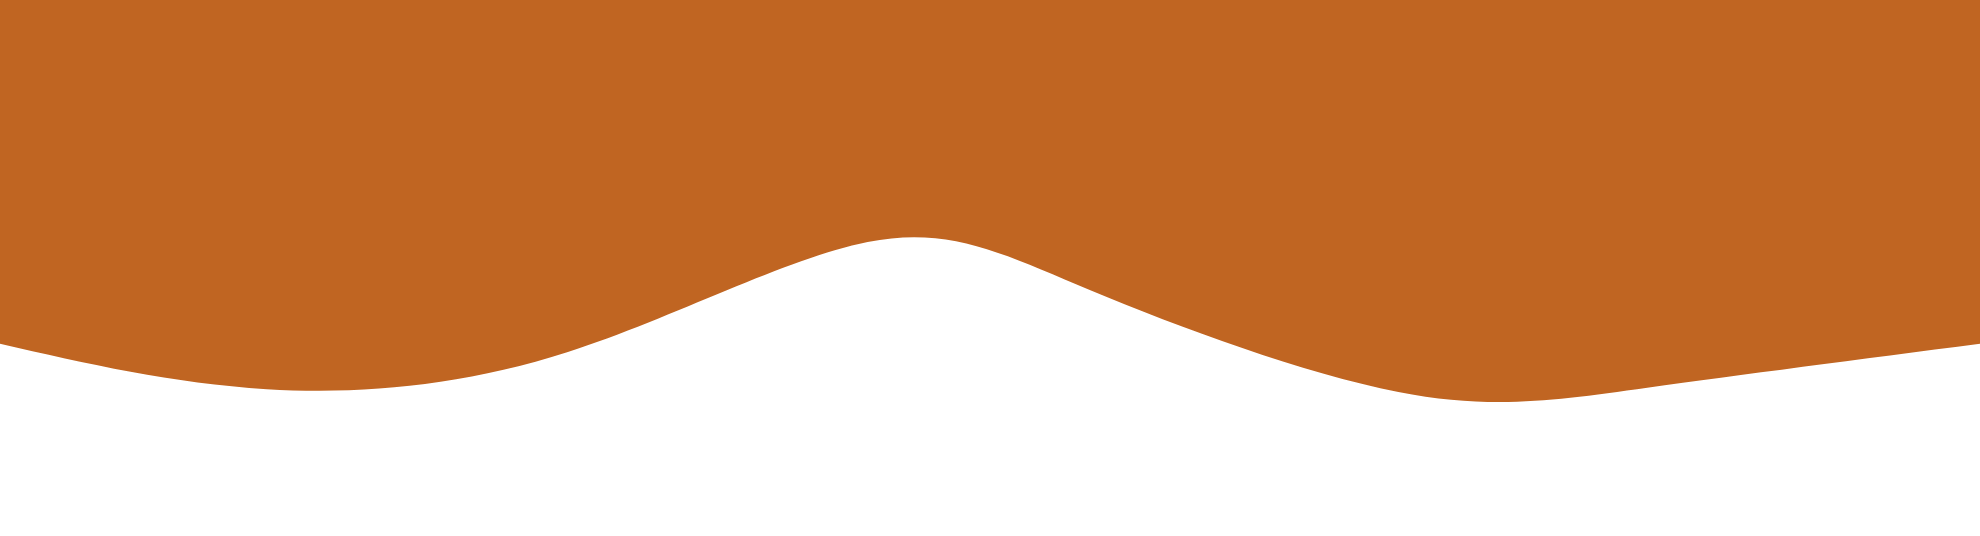
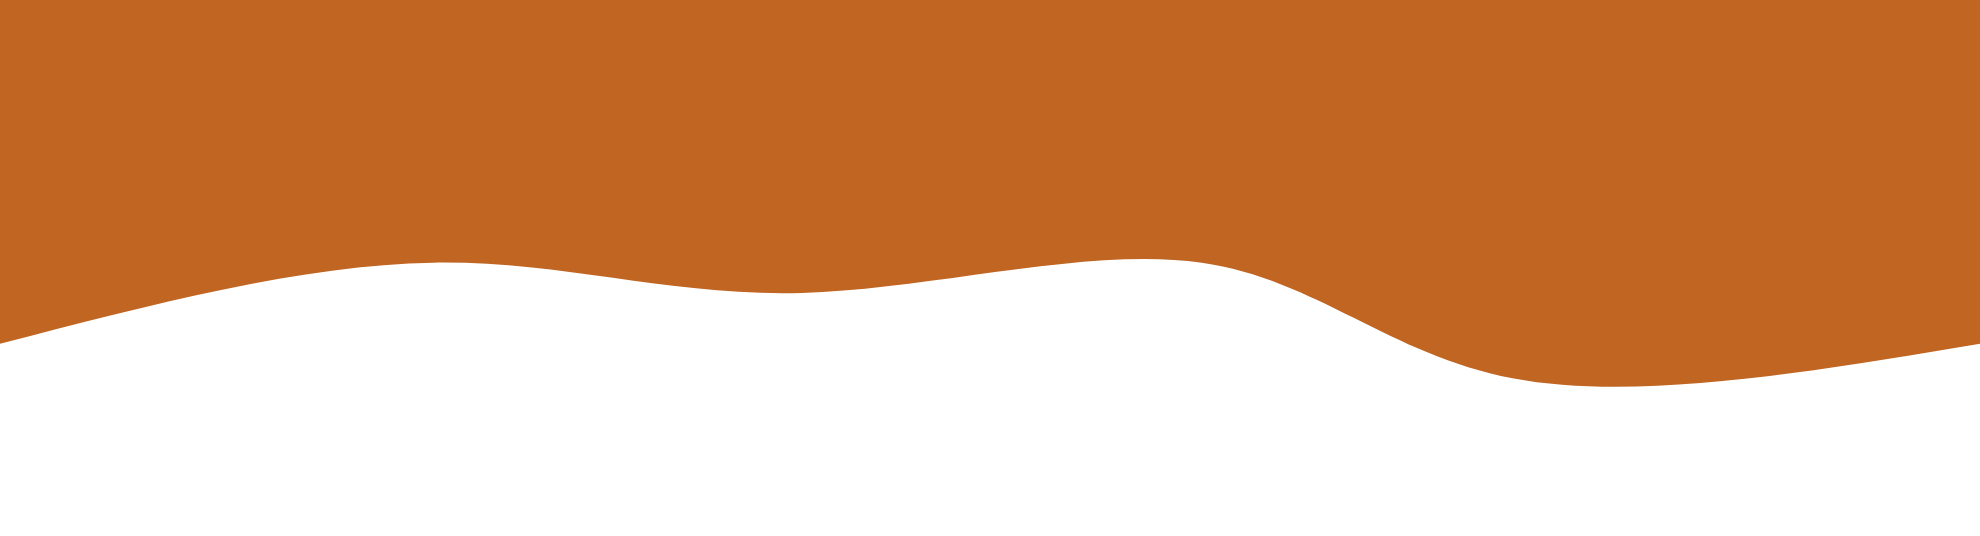
add waves up and down

Changed region(s): [[0.0, 0.4478, 0.8318, 0.7761], [0.8626, 0.6567, 0.9859, 0.7164]]

diff --git a/output.css b/output.css
@@ -12,10 +12,6 @@
     --spacing: 0.25rem;
     --text-sm: 0.875rem;
     --text-sm--line-height: calc(1.25 / 0.875);
-    --text-xl: 1.25rem;
-    --text-xl--line-height: calc(1.75 / 1.25);
-    --text-2xl: 1.5rem;
-    --text-2xl--line-height: calc(2 / 1.5);
     --text-3xl: 1.875rem;
     --text-3xl--line-height: calc(2.25 / 1.875);
     --text-4xl: 2.25rem;
@@ -29,7 +25,6 @@
     --font-weight-bold: 700;
     --font-weight-extrabold: 800;
     --radius-xl: 0.75rem;
-    --radius-2xl: 1rem;
     --radius-3xl: 1.5rem;
     --ease-in: cubic-bezier(0.4, 0, 1, 1);
     --ease-out: cubic-bezier(0, 0, 0.2, 1);
@@ -263,8 +258,35 @@
   .-top-\[7\%\] {
     top: calc(7% * -1);
   }
+  .-top-\[8\%\] {
+    top: calc(8% * -1);
+  }
+  .-top-\[9\%\] {
+    top: calc(9% * -1);
+  }
+  .-top-\[10\%\] {
+    top: calc(10% * -1);
+  }
+  .-top-\[11\%\] {
+    top: calc(11% * -1);
+  }
+  .top-\[10\%\] {
+    top: 10%;
+  }
   .-bottom-\[7\%\] {
     bottom: calc(7% * -1);
+  }
+  .-bottom-\[8\%\] {
+    bottom: calc(8% * -1);
+  }
+  .-bottom-\[9\%\] {
+    bottom: calc(9% * -1);
+  }
+  .-bottom-\[10\%\] {
+    bottom: calc(10% * -1);
+  }
+  .-bottom-\[11\%\] {
+    bottom: calc(11% * -1);
   }
   .isolate {
     isolation: isolate;
@@ -383,9 +405,6 @@
   .m-1 {
     margin: calc(var(--spacing) * 1);
   }
-  .m-2 {
-    margin: calc(var(--spacing) * 2);
-  }
   .mx-2 {
     margin-inline: calc(var(--spacing) * 2);
   }
@@ -397,9 +416,6 @@
   }
   .mb-3 {
     margin-bottom: calc(var(--spacing) * 3);
-  }
-  .mb-4 {
-    margin-bottom: calc(var(--spacing) * 4);
   }
   .mb-5 {
     margin-bottom: calc(var(--spacing) * 5);
@@ -506,8 +522,8 @@
   .h-24 {
     height: calc(var(--spacing) * 24);
   }
-  .h-96 {
-    height: calc(var(--spacing) * 96);
+  .h-28 {
+    height: calc(var(--spacing) * 28);
   }
   .h-\[85vh\] {
     height: 85vh;
@@ -535,15 +551,6 @@
   }
   .w-1\/2 {
     width: calc(1/2 * 100%);
-  }
-  .w-2 {
-    width: calc(var(--spacing) * 2);
-  }
-  .w-2\/5 {
-    width: calc(2/5 * 100%);
-  }
-  .w-96 {
-    width: calc(var(--spacing) * 96);
   }
   .w-full {
     width: 100%;
@@ -797,9 +804,6 @@
   .auto-rows-min {
     grid-auto-rows: min-content;
   }
-  .grid-cols-3 {
-    grid-template-columns: repeat(3, minmax(0, 1fr));
-  }
   .grid-cols-none {
     grid-template-columns: none;
   }
@@ -1052,9 +1056,6 @@
   }
   .rounded {
     border-radius: 0.25rem;
-  }
-  .rounded-2xl {
-    border-radius: var(--radius-2xl);
   }
   .rounded-3xl {
     border-radius: var(--radius-3xl);
@@ -1406,26 +1407,14 @@
   .px-5 {
     padding-inline: calc(var(--spacing) * 5);
   }
-  .px-6 {
-    padding-inline: calc(var(--spacing) * 6);
-  }
   .px-7 {
     padding-inline: calc(var(--spacing) * 7);
-  }
-  .px-8 {
-    padding-inline: calc(var(--spacing) * 8);
   }
   .py-2 {
     padding-block: calc(var(--spacing) * 2);
   }
   .py-3 {
     padding-block: calc(var(--spacing) * 3);
-  }
-  .py-4 {
-    padding-block: calc(var(--spacing) * 4);
-  }
-  .py-8 {
-    padding-block: calc(var(--spacing) * 8);
   }
   .py-20 {
     padding-block: calc(var(--spacing) * 20);
@@ -1472,10 +1461,6 @@
   .align-top {
     vertical-align: top;
   }
-  .text-2xl {
-    font-size: var(--text-2xl);
-    line-height: var(--tw-leading, var(--text-2xl--line-height));
-  }
   .text-3xl {
     font-size: var(--text-3xl);
     line-height: var(--tw-leading, var(--text-3xl--line-height));
@@ -1491,10 +1476,6 @@
   .text-sm {
     font-size: var(--text-sm);
     line-height: var(--tw-leading, var(--text-sm--line-height));
-  }
-  .text-xl {
-    font-size: var(--text-xl);
-    line-height: var(--tw-leading, var(--text-xl--line-height));
   }
   .leading-17 {
     --tw-leading: calc(var(--spacing) * 17);

diff --git a/index.html b/index.html
@@ -162,8 +162,13 @@
       </div>
     </section>
 
-    <section class="bg-orange py-20">
-      <div class="container grid md:grid-cols-3 gap-4">
+    <section class="bg-orange py-20 relative">
+      <img
+        src="img/orangeup.png"
+        alt=""
+        class="w-full h-24 absolute -top-[8%]"
+      />
+      <div class="container grid md:grid-cols-3 gap-4 mx-auto">
         <div class="flex flex-col items-center mb-8">
           <svg
             version="1.1"
@@ -630,6 +635,11 @@
           >
         </div>
       </div>
+      <img
+        src="img/orangedown.png"
+        alt=""
+        class="w-full absolute h-24 -bottom-[9%]"
+      />
     </section>
 
     <script>
